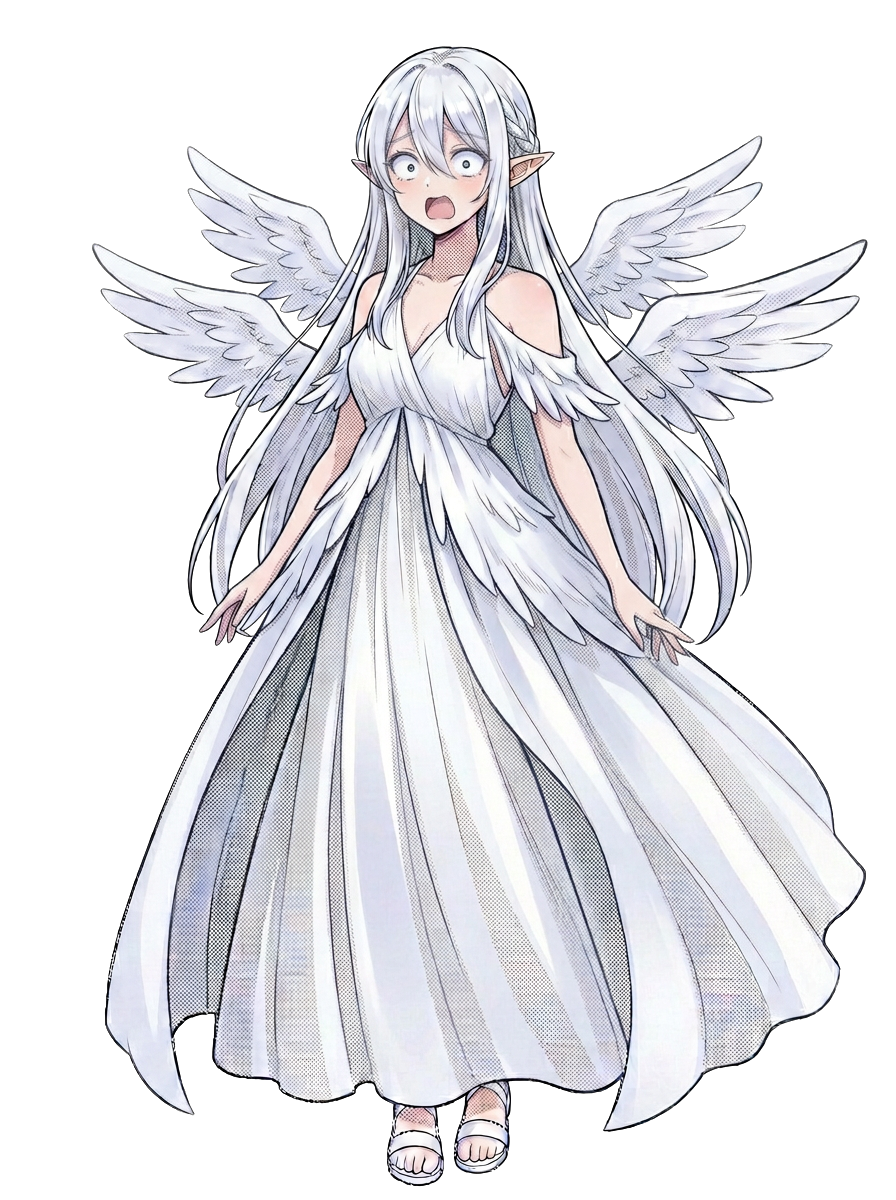
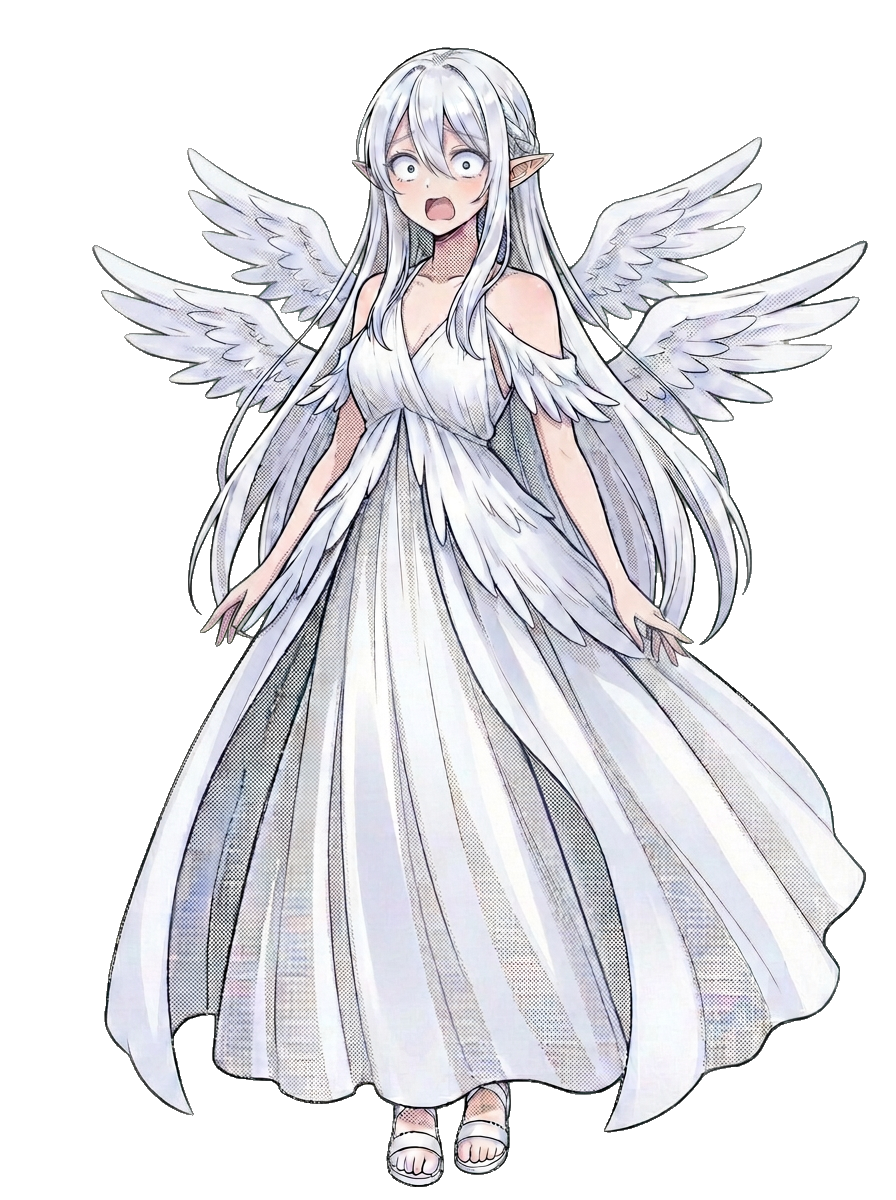
Mirael sprites re-cut via chroma key (angel x8, human x2): feathers restored, neutral despill; ASSET_VER _16

diff --git a/index.html b/index.html
@@ -260,34 +260,34 @@
   </div>
 
   <!-- SCRIPT CHAPTERS -->
-  <script src="vn-config.js?v=20261101_15"></script>
-  <script src="vn-core.js?v=20261101_15"></script>
-  <script src="script/_registry.js?v=20261101_15"></script>
-  <script src="script/prologue_1_morning.js?v=20261101_15"></script>
-  <script src="script/prologue_2_city.js?v=20261101_15"></script>
-  <script src="script/prologue_3_barbershop.js?v=20261101_15"></script>
-  <script src="script/prologue_4_depot.js?v=20261101_15"></script>
-  <script src="script/prologue_5_crash.js?v=20261101_15"></script>
-  <script src="script/day1_1_mirael.js?v=20261101_15"></script>
-  <script src="script/day1_2_valeria.js?v=20261101_15"></script>
-  <script src="script/day1_3_evening.js?v=20261101_15"></script>
-  <script src="script/day2_1_quit.js?v=20261101_15"></script>
-  <script src="script/day2_2_zero.js?v=20261101_15"></script>
-  <script src="script/day2_3_walk.js?v=20261101_15"></script>
-  <script src="script/day3_1_office.js?v=20261101_15"></script>
-  <script src="script/day3_2_nika.js?v=20261101_15"></script>
-  <script src="script/day3_3_home.js?v=20261101_15"></script>
-  <script src="script/day4_1_free.js?v=20261101_15"></script>
-  <script src="script/day4_2_barbershop.js?v=20261101_15"></script>
-  <script src="script/day4_3_home.js?v=20261101_15"></script>
-  <script src="script/day5_1_artyom.js?v=20261101_15"></script>
-  <script src="script/day5_2_elevator.js?v=20261101_15"></script>
-  <script src="script/day5_3_night.js?v=20261101_15"></script>
-  <script src="script/day6_1_morning.js?v=20261101_15"></script>
-  <script src="script/day6_2_squeeze.js?v=20261101_15"></script>
-  <script src="script/day6_3_taya.js?v=20261101_15"></script>
-  <script src="script/day7_1_voices.js?v=20261101_15"></script>
-  <script src="script/day7_2_stairs.js?v=20261101_15"></script>
-  <script src="engine.js?v=20261101_15"></script>
+  <script src="vn-config.js?v=20261101_16"></script>
+  <script src="vn-core.js?v=20261101_16"></script>
+  <script src="script/_registry.js?v=20261101_16"></script>
+  <script src="script/prologue_1_morning.js?v=20261101_16"></script>
+  <script src="script/prologue_2_city.js?v=20261101_16"></script>
+  <script src="script/prologue_3_barbershop.js?v=20261101_16"></script>
+  <script src="script/prologue_4_depot.js?v=20261101_16"></script>
+  <script src="script/prologue_5_crash.js?v=20261101_16"></script>
+  <script src="script/day1_1_mirael.js?v=20261101_16"></script>
+  <script src="script/day1_2_valeria.js?v=20261101_16"></script>
+  <script src="script/day1_3_evening.js?v=20261101_16"></script>
+  <script src="script/day2_1_quit.js?v=20261101_16"></script>
+  <script src="script/day2_2_zero.js?v=20261101_16"></script>
+  <script src="script/day2_3_walk.js?v=20261101_16"></script>
+  <script src="script/day3_1_office.js?v=20261101_16"></script>
+  <script src="script/day3_2_nika.js?v=20261101_16"></script>
+  <script src="script/day3_3_home.js?v=20261101_16"></script>
+  <script src="script/day4_1_free.js?v=20261101_16"></script>
+  <script src="script/day4_2_barbershop.js?v=20261101_16"></script>
+  <script src="script/day4_3_home.js?v=20261101_16"></script>
+  <script src="script/day5_1_artyom.js?v=20261101_16"></script>
+  <script src="script/day5_2_elevator.js?v=20261101_16"></script>
+  <script src="script/day5_3_night.js?v=20261101_16"></script>
+  <script src="script/day6_1_morning.js?v=20261101_16"></script>
+  <script src="script/day6_2_squeeze.js?v=20261101_16"></script>
+  <script src="script/day6_3_taya.js?v=20261101_16"></script>
+  <script src="script/day7_1_voices.js?v=20261101_16"></script>
+  <script src="script/day7_2_stairs.js?v=20261101_16"></script>
+  <script src="engine.js?v=20261101_16"></script>
 </body>
 </html>

diff --git a/engine.js b/engine.js
@@ -1,6 +1,6 @@
 // ДВИЖОК ВИЗУАЛЬНОЙ НОВЕЛЛЫ «НЕ СМОТРИ НА НЕБО» ($WAG ENTERTAINMENT)
 (function () {
-  const ASSET_VER = "20261101_15";
+  const ASSET_VER = "20261101_16";
 
   function withVer(url) {
     if (!url) return "";

diff --git a/tools/chroma_key.py b/tools/chroma_key.py
@@ -112,11 +112,22 @@ def main():
     ap.add_argument("dst")
     ap.add_argument("--ref")
     ap.add_argument("--key", default="green", choices=["green", "blue"])
+    ap.add_argument("--neutral-despill", action="store_true",
+                    help="снять оттенок ключа со всех почти-серых пикселей (для персонажей без "
+                         "зелёного в палитре: Мираэль, белые перья). НЕ для Саши — серо-зелёные глаза")
     args = ap.parse_args()
 
     rgb = np.asarray(Image.open(args.src).convert("RGB")).astype(np.float32)
     alpha, band, k = key_alpha(rgb, args.key)
     rgb = despill(rgb, alpha, band, args.key)
+    if args.neutral_despill:
+        r, g, b = rgb[..., 0], rgb[..., 1], rgb[..., 2]
+        if args.key == "green":
+            m = (np.abs(r - b) < 40) & (g > np.maximum(r, b))
+            rgb[..., 1] = np.where(m, np.maximum(r, b), g)
+        else:
+            m = (np.abs(r - g) < 40) & (b > np.maximum(r, g))
+            rgb[..., 2] = np.where(m, np.maximum(r, g), b)
     rgba = np.rint(np.dstack([rgb, alpha * 255.0]).clip(0, 255)).astype(np.uint8)
     info = f"key={k:.0f}"
     if args.ref:

diff --git a/docs/production/assets.md b/docs/production/assets.md
@@ -117,14 +117,16 @@
 1. Исходник на белом (`assets/characters/<имя>/*.png`; у Лены/Ники — прозрачный, подложенный на белый) → генератор: «замени ТОЛЬКО фон на ровный #00FF00, персонажа не меняй». Если на спрайте плохие глаза — в том же запросе «поправь глаза, выражение то же».
 2. `python tools/chroma_key.py green.png out.png --ref <старый transparent>` — вырезает фон (только связанный с полем + узкие щели, поэтому зелёные глаза не трогаются), убирает зелёный отсвет по кромке, ставит фигуру ровно туда же и того же роста, что старая (настройки слотов в `styles.css` не съезжают).
 3. Проверка: силуэт совпадает со старым (IoU ≳ 0.99), лицо не уехало, зелёных пикселей 0.
-4. Зелёный ключ; для персонажей в зелёном (Тая — оливковый кардиган) — `--key blue`.
-5. **Артём — не трогаем** (автор: «нормально сделан, оставим»; лицо срисовано с реального человека).
+4. Для персонажей без зелёного в палитре (Мираэль: белые перья, голубые глаза) — `--neutral-despill`, снимает зеленоватый отлив с белого. Саше нельзя: серо-зелёные глаза.
+5. Зелёный ключ; для персонажей в зелёном (Тая — оливковый кардиган) — `--key blue`.
+6. **Артём — не трогаем** (автор: «нормально сделан, оставим»; лицо срисовано с реального человека).
 
 | Набор | Статус |
 |---|---|
 | Саша, рубашка: neutral, smile, stressed*, surprised*, thoughtful, wounded, determined_anger, happy, sad, shocked* | ✅ 01.11 (* — поправлены глаза) |
 | Саша: shy, shocked_terrified, куртка ×7 (shocked*, surprised*), courier_rain | ✅ 01.11 — **Саша закрыт целиком, 20/20** |
-| Мираэль (ангел ×8, человек ×8) | ⏳ |
+| Мираэль: ангел ×8, человек neutral/happy (`--neutral-despill`) | ✅ 01.11 — у крыльев вернулись перья, потерянные старой вырезкой |
+| Мираэль, человек: sad, shy, surprised, crying, determined_anger, shocked_terrified | ⏳ |
 | Валерия (×9 + human ×9) | ⏳ |
 | Лена ×10, Ника ×8, Дмитрий ×5 | ⏳ |
 | Тая | ждём новый дефолтный спрайт от автора |
